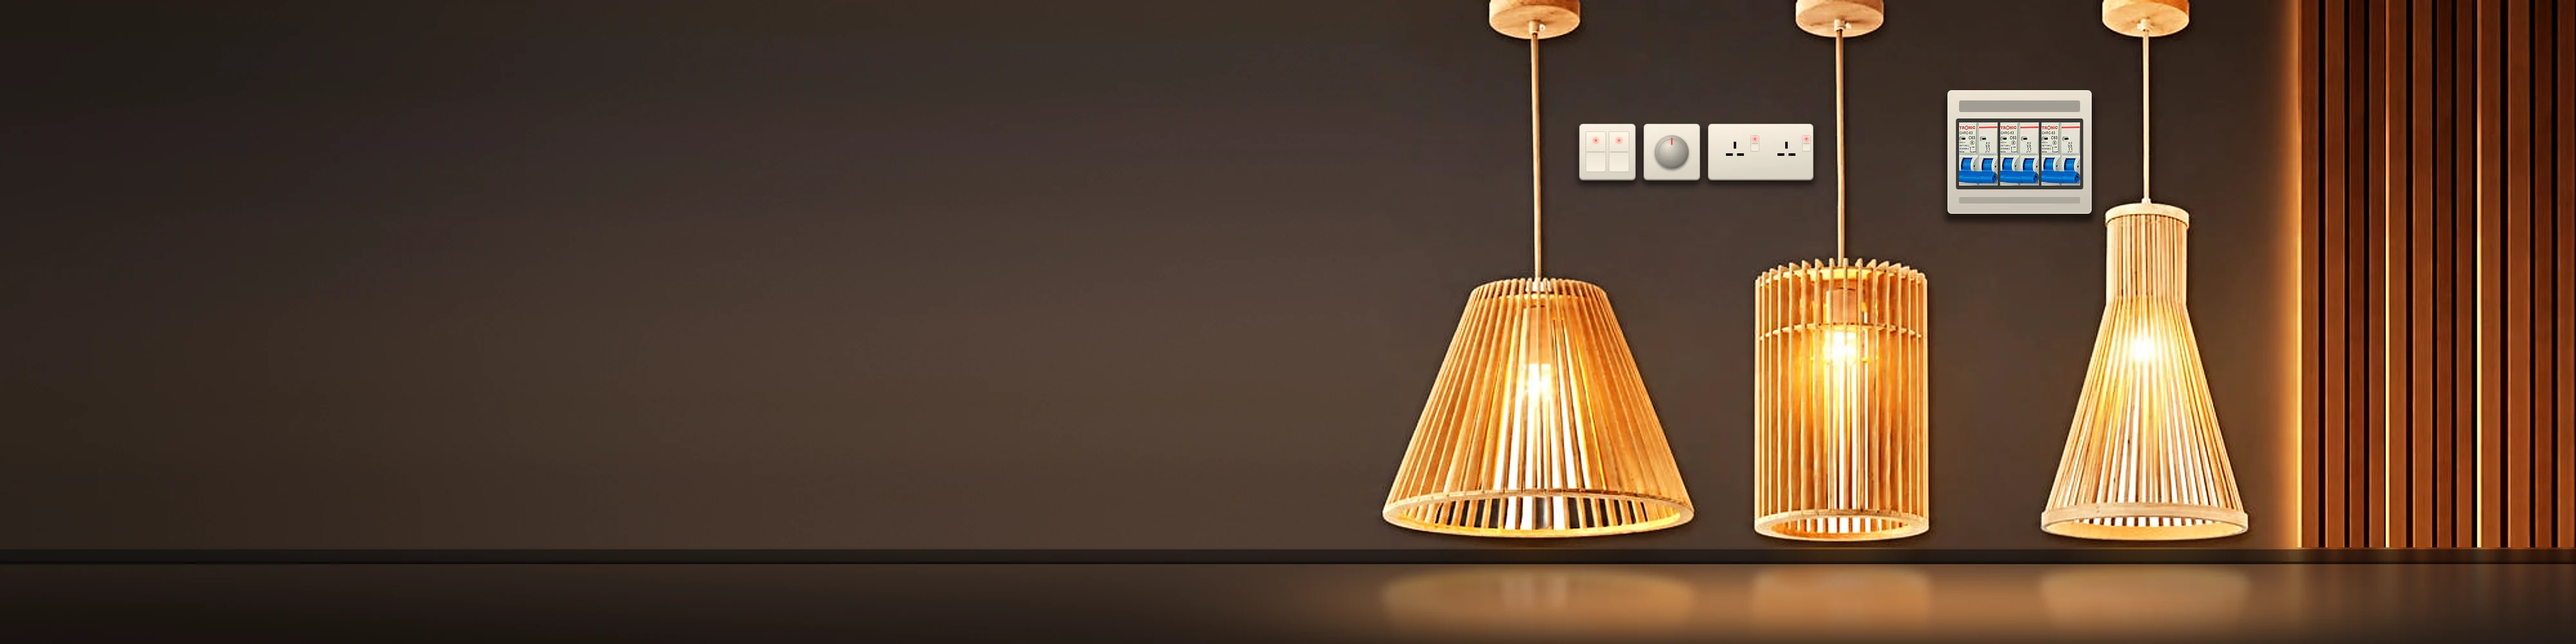
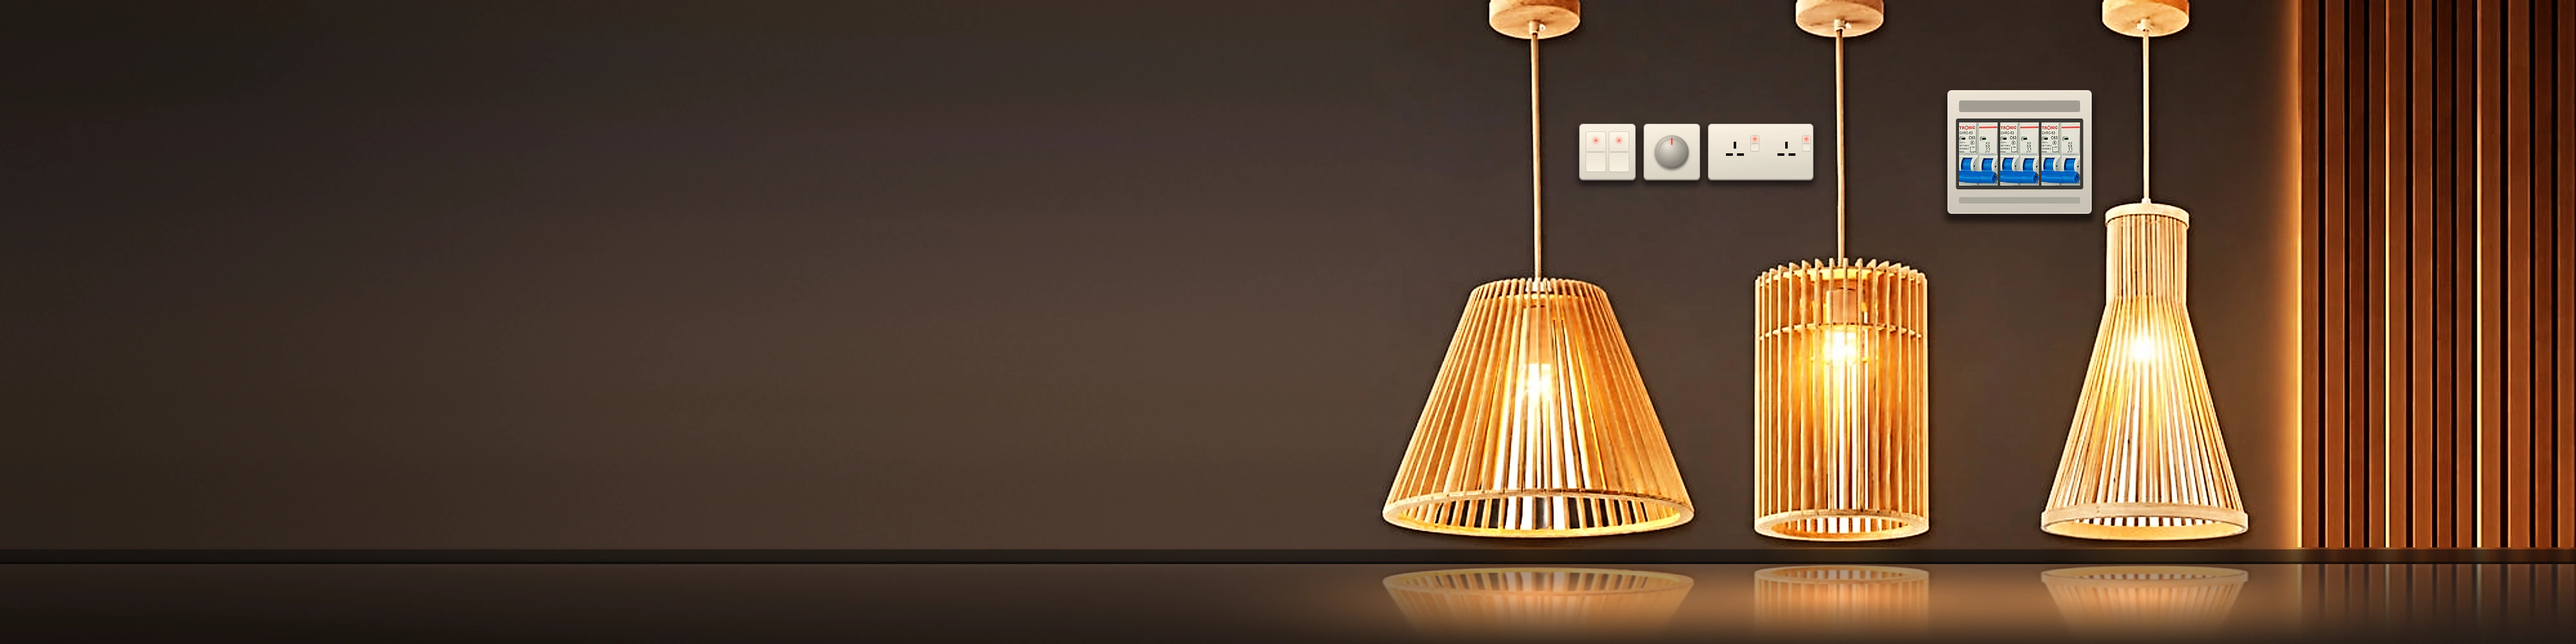
feat(storefront): crisper, glossier hero room frames
Re-render the hero's lit and dim room frames from the same campaign
photograph with three-radius detail recovery (edges, structure, clarity)
and a slightly stronger tone curve, so the rattan slats and cords read
crisp instead of soft. The polished floor now carries a foreshortened
reflection of the shade rims and their glow, a hot core in each lamp's
pool and a thin specular edge along the skirting. The lit frame is
encoded at webp quality 93 and the dim frame at 86.

The master is still a 1920x500 photograph, so screens wider than about
2000px remain slightly upscaled until a larger master is supplied.

diff --git a/docs/CHANGELOG.md b/docs/CHANGELOG.md
@@ -3,6 +3,20 @@
 Meaningful implementation changes, newest first. Dates are work dates;
 nothing below is released.
 
+## 2026-11-06 — crisper, glossier hero scene
+
+- The hero's room frames are re-rendered from the same campaign photograph with
+  three-radius detail recovery (edges, structure, clarity) and a slightly
+  stronger tone curve, so the rattan slats and cords read crisp instead of soft.
+- The polished floor now carries a foreshortened reflection of the shade rims
+  and their glow, crisp at the skirting and softening outward, plus a hot core
+  in each lamp's pool and a thin specular edge along the skirting.
+- The lit frame is encoded at webp quality 93 (about 280KB, was 155KB) and the
+  dim frame at 86 (about 79KB), so the optimizer has detail to keep.
+- Limitation unchanged: the master is a 1920x500 photograph, so on screens
+  wider than about 2000px the scene is still upscaled; a higher-resolution
+  master would improve it further.
+
 ## 2026-11-06 — spotlight on the hero's slatted wall
 
 - A three-head black wall spotlight (from the owner's product shot) is mounted on
